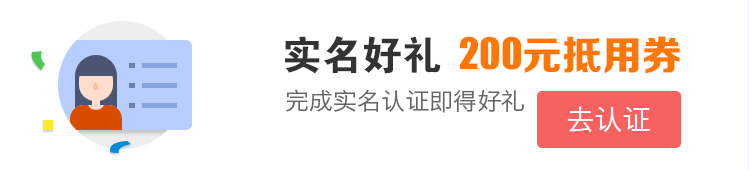
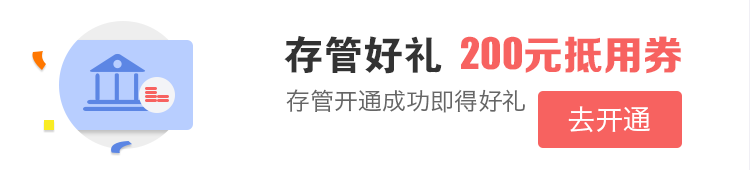
修改首页    资产分析

diff --git a/src/pages/my/assetStatistics/balance/analysis/index.js b/src/pages/my/assetStatistics/balance/analysis/index.js
@@ -41,6 +41,7 @@ class Index extends React.Component {
                         <li><span className={styles.dc1}></span><span className={styles.m_m}>定存宝B计划待收本息</span><span className={styles.m_i}>{data.info[5].value}</span></li>
                         <li><span className={styles.zt}></span><span className={styles.m_m}>直投项目待收本息</span><span className={styles.m_i}>{data.info[3].value}</span></li>
                         <li><span className={styles.zq}></span><span className={styles.m_m}>债权转让待收本息</span><span className={styles.m_i}>{data.info[4].value}</span></li>
+                        <li><span className={styles.jd}></span><span className={styles.m_m}>聚点+计划待收本息</span><span className={styles.m_i}>{data.info[4].value}</span></li>
                     </ul>
                 </div>
             </div>
@@ -91,6 +92,9 @@ const moneyModel =(data)=>{
             },{
                 name: "定存宝B计划待收本息",
                 value: 0
+            },{
+                name: "聚点+计划待收本息",
+                value:0
             }
         ],
         total_money:0
@@ -102,6 +106,7 @@ const moneyModel =(data)=>{
         money.info[3].value = data.data.borrow;
         money.info[4].value = data.data.transfer;
         money.info[5].value = data.data.dingcunB;
+        money.info[6].value = data.data.depositSuperviseLeftRevenue
         money.total_money = Util.padMoney(data.data.userSum);
         money.balance_total =  Util.padMoney(data.data.money);
         money.profit_total = Util.padMoney(data.data.history);
@@ -118,7 +123,8 @@ const moneyModel =(data)=>{
                     "#fa394c",
                     "#ffaf32",
                     "#2ce4a6",
-                    "#ff660a"
+                    "#ff660a",
+                    "#000"
                 ],
                 series: [{
                     name: '资产分析',

diff --git a/src/App.js b/src/App.js
@@ -134,8 +134,8 @@ GatherBackDetail,GatherInvestRecord,GatherMy,GatherMyDetail,GatherProjects,NewCh
 SuccessTemplate} from './loadTool'
 
 // 工厂方法创建saga中间件
-const a=window.location.href.split('.')[1]+'.cn';
-document.domain = a;
+//const a=window.location.href.split('.')[1]+'.cn';
+//document.domain = a;
 const sagaMiddleware = createSagaMiddleware();
 const store = createStore(reducer, applyMiddleware(
     thunk,

diff --git a/src/request/fetch.js b/src/request/fetch.js
@@ -14,8 +14,8 @@ import bonus from './bonus'
 import scratcheCard from './scratcheCard.js'
 import shopping from './shopping'
 
-const ROOT_URL = '/mobile_api/'
-//const ROOT_URL = '/'
+//const ROOT_URL = '/mobile_api/'
+const ROOT_URL = '/'
 const transferObjectToFormat = (o) => {
   let result = []
   Object.keys(o).map(key => result.push(key + '=' + encodeURIComponent(o[key])))

diff --git a/src/pages/home/index.js b/src/pages/home/index.js
@@ -219,7 +219,7 @@ class FinancialIndex extends Component{
     }
     noisAuth=()=>{
         return(<li className={style.headerLi}>
-            <Link to="/user/setting/identityAuth">
+            <Link to="/user/setting/regStore">
                 <img src={noisAuth} className={style.headerImg}/>
             </Link>
         </li>)

diff --git a/src/pages/my/assetStatistics/balance/analysis/index.css b/src/pages/my/assetStatistics/balance/analysis/index.css
@@ -150,6 +150,16 @@
   top: 5px;
   background: #2ce4a6;
 }
+.jd{
+  width: 10px;
+  height: 10px;
+  border-radius: 5px;
+  display: inline-block;
+  position: absolute;
+  left: 0;
+  top: 5px;
+  background: #000;
+}
 .m_m{
   font-size: 12px;
   color: #aaaaaa;
